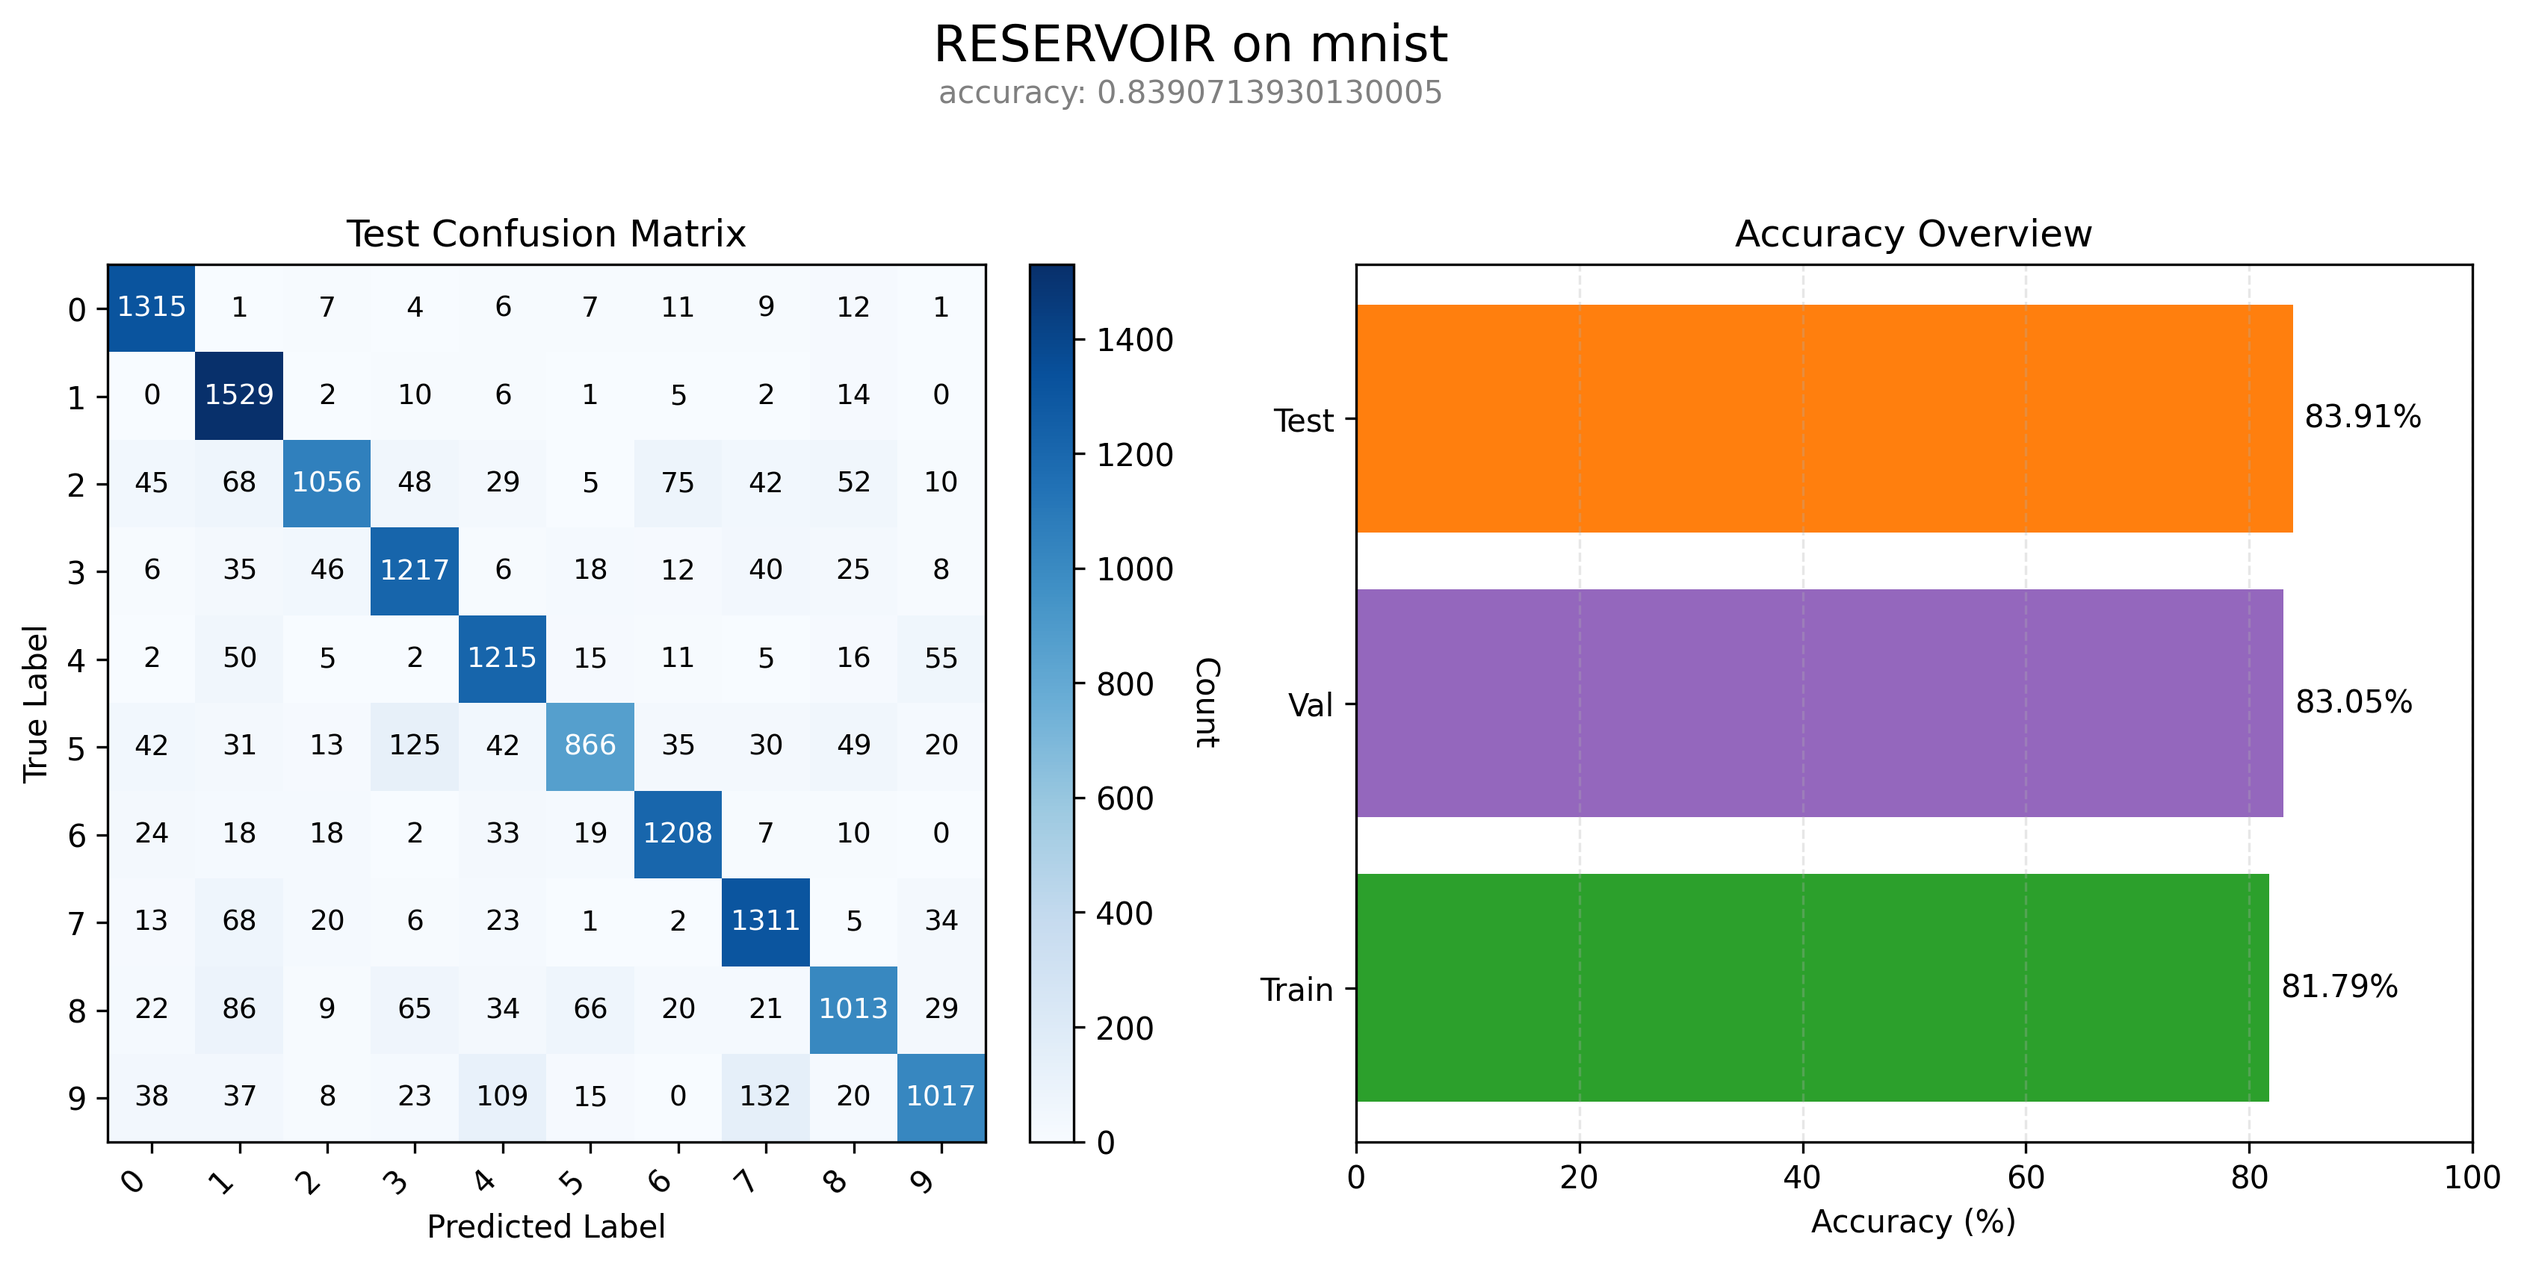
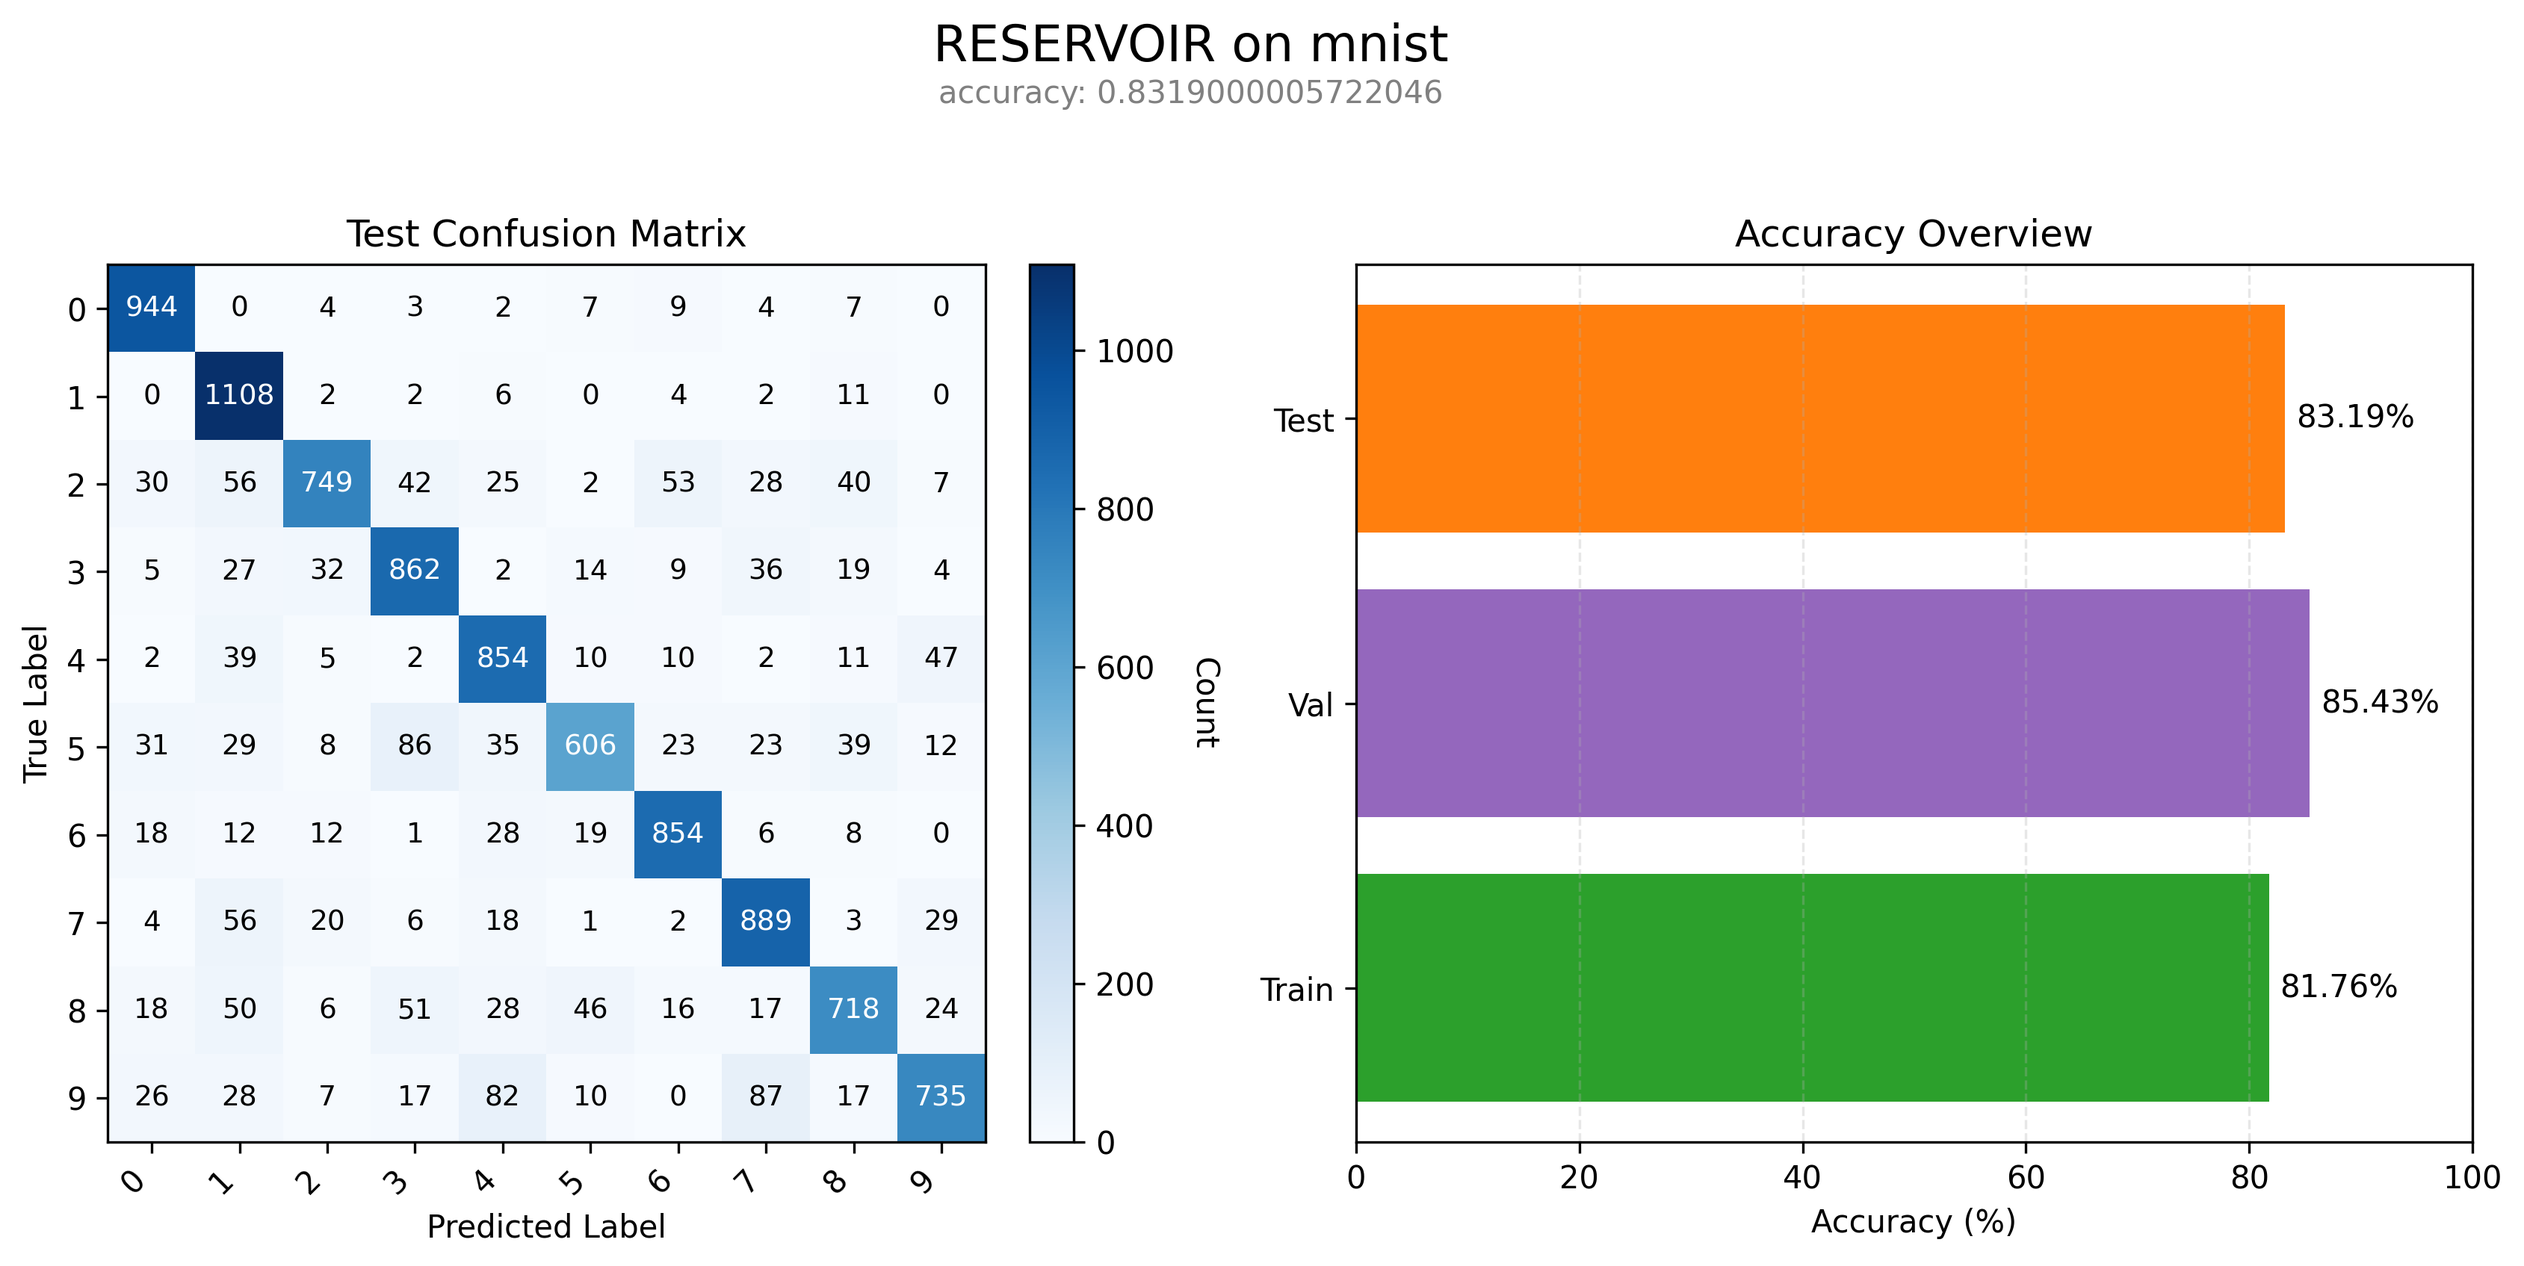
mnist loader fixed

diff --git a/src/reservoir/data/loaders.py b/src/reservoir/data/loaders.py
@@ -1,15 +1,17 @@
 """/home/yoshi/PycharmProjects/Reservoir/src/reservoir/data/loaders.py
-Dataset loader registrations."""
+Dataset loader registrations and preparation helpers."""
 
 from __future__ import annotations
 
-from typing import Dict, Any, Tuple
+from typing import Any, Dict, Optional, Tuple, Union
 
+import jax
 import jax.numpy as jnp
 
 from reservoir.data.generators import generate_sine_data, generate_mnist_sequence_data, generate_mackey_glass_data
-from reservoir.data.presets import get_dataset_preset
+from reservoir.data.presets import DatasetPreset, get_dataset_preset, normalize_dataset_name
 from reservoir.data.registry import DatasetRegistry
+from reservoir.data.structs import SplitDataset
 
 
 @DatasetRegistry.register("sine_wave")
@@ -32,8 +34,8 @@ def load_sine_wave(config: Dict[str, Any]) -> Tuple[jnp.ndarray, jnp.ndarray]:
 
 
 @DatasetRegistry.register("mnist")
-def load_mnist(config: Dict[str, Any]) -> Tuple[jnp.ndarray, jnp.ndarray]:
-    """Load MNIST sequence dataset as (N, T, F)."""
+def load_mnist(config: Dict[str, Any]) -> SplitDataset:
+    """Load MNIST sequence dataset as canonical train/test splits."""
     if generate_mnist_sequence_data is None:
         raise ImportError("MNIST sequence loader requires torch/torchvision.")
 
@@ -57,9 +59,15 @@ def load_mnist(config: Dict[str, Any]) -> Tuple[jnp.ndarray, jnp.ndarray]:
     train_arr = train_arr.reshape(train_arr.shape[0], train_arr.shape[1], -1)
     test_arr = test_arr.reshape(test_arr.shape[0], test_arr.shape[1], -1)
 
-    X = jnp.concatenate([train_arr, test_arr], axis=0)
-    y = jnp.concatenate([jnp.asarray(train_labels), jnp.asarray(test_labels)], axis=0)
-    return X, y
+    train_labels_arr = jnp.asarray(train_labels)
+    test_labels_arr = jnp.asarray(test_labels)
+
+    return SplitDataset(
+        train_X=train_arr,
+        train_y=train_labels_arr,
+        test_X=test_arr,
+        test_y=test_labels_arr,
+    )
 
 
 @DatasetRegistry.register("mackey_glass")
@@ -76,3 +84,123 @@ def load_mackey_glass(config: Dict[str, Any]) -> Tuple[jnp.ndarray, jnp.ndarray]
     if X_arr.ndim == 2:
         X_arr = X_arr[:, None, :]
     return X_arr, y_arr
+
+
+def load_dataset_with_validation_split(
+    config: Dict[str, Any],
+    dataset_preset: DatasetPreset,
+    training_cfg: Dict[str, Any],
+    *,
+    model_type: str,
+    require_3d: bool = True,
+) -> tuple[jnp.ndarray, jnp.ndarray, Optional[jnp.ndarray], Optional[jnp.ndarray], jnp.ndarray, jnp.ndarray]:
+    """
+    Load dataset via registry, apply task-specific preprocessing, and split into train/val/test.
+    """
+    dataset_name = normalize_dataset_name(config.get("dataset", ""))
+    loader = DatasetRegistry.get(dataset_name)
+
+    print(f"Loading dataset: {dataset_name}...")
+    dataset = loader(config)
+
+    val_size = float(training_cfg.get("val_size")) if training_cfg else 0.0
+
+    def _split_validation(features: jnp.ndarray, labels: jnp.ndarray) -> tuple[
+        jnp.ndarray, jnp.ndarray, Optional[jnp.ndarray], Optional[jnp.ndarray]
+    ]:
+        if val_size <= 0.0 or len(features) <= 1:
+            return features, labels, None, None
+
+        val_count = max(1, int(len(features) * val_size))
+        train_count = len(features) - val_count
+        if train_count < 1:
+            train_count = len(features) - 1
+
+        val_features = features[train_count:]
+        val_labels = labels[train_count:]
+        return features[:train_count], labels[:train_count], val_features, val_labels
+
+    train_X: Union[jnp.ndarray, None]
+    train_y: Union[jnp.ndarray, None]
+    test_X: Union[jnp.ndarray, None]
+    test_y: Union[jnp.ndarray, None]
+
+    if isinstance(dataset, SplitDataset):
+        train_X = dataset.train_X
+        train_y = dataset.train_y
+        test_X = dataset.test_X
+        test_y = dataset.test_y
+
+        if dataset.val_X is not None or dataset.val_y is not None:
+            val_X = dataset.val_X
+            val_y = dataset.val_y
+        else:
+            train_X, train_y, val_X, val_y = _split_validation(train_X, train_y)
+    else:
+        try:
+            X, y = dataset
+        except (TypeError, ValueError):
+            raise ValueError(f"Loader for dataset '{dataset_name}' must return (X, y) tuple or SplitDataset.")
+
+        total = len(X)
+        if total < 2:
+            raise ValueError(f"Dataset '{dataset_name}' is too small to split (size={total}).")
+
+        train_ratio = float(training_cfg.get("train_size", 0.8)) if training_cfg else 0.8
+        test_ratio = float(training_cfg.get("test_ratio", 0.0)) if training_cfg else 0.0
+
+        if not (0.0 < train_ratio < 1.0):
+            raise ValueError(f"train_size must be in (0,1), got {train_ratio}.")
+        if not (0.0 <= test_ratio < 1.0):
+            raise ValueError(f"test_ratio must be in [0,1), got {test_ratio}.")
+
+        if test_ratio > 0.0:
+            test_count = max(1, int(total * test_ratio))
+            train_count = total - test_count
+        else:
+            train_count = max(1, int(total * train_ratio))
+            test_count = total - train_count
+
+        if train_count < 1 or test_count < 1:
+            raise ValueError(f"Invalid split sizes: train={train_count}, test={test_count} for total={total}.")
+
+        train_X, test_X = X[:train_count], X[train_count:]
+        train_y, test_y = y[:train_count], y[train_count:]
+
+        train_X, train_y, val_X, val_y = _split_validation(train_X, train_y)
+
+    if require_3d:
+        targets = {
+            "train": train_X,
+            "test": test_X,
+            "val": val_X,
+        }
+        for split_name, arr in targets.items():
+            if arr is None:
+                continue
+            if arr.ndim != 3:
+                raise ValueError(
+                    f"Model type '{model_type}' requires 3D input (Batch, Time, Features). "
+                    f"Got shape {arr.shape} for split '{split_name}'. Please reshape your data source."
+                )
+
+    # Dataset-specific preprocessing
+    if dataset_name in {"mnist"}:
+        num_classes = int(dataset_preset.config.n_output)
+        print(f"Converting labels to one-hot vectors (classes={num_classes})...")
+        train_y = jax.nn.one_hot(jnp.asarray(train_y).astype(int), num_classes)
+        if val_y is not None:
+            val_y = jax.nn.one_hot(jnp.asarray(val_y).astype(int), num_classes)
+        test_y = jax.nn.one_hot(jnp.asarray(test_y).astype(int), num_classes)
+
+        print("Normalizing image data to [0, 1] range (div by 255)...")
+        train_X = jnp.asarray(train_X, dtype=jnp.float64) / 255.0
+        if val_X is not None:
+            val_X = jnp.asarray(val_X, dtype=jnp.float64) / 255.0
+        if test_X is not None:
+            test_X = jnp.asarray(test_X, dtype=jnp.float64) / 255.0
+
+        # Downstream scalers should be skipped for already-normalized vision data.
+        config["use_preprocessing"] = False
+
+    return train_X, train_y, val_X, val_y, test_X, test_y

diff --git a/pipelines/run.py b/pipelines/run.py
@@ -10,17 +10,14 @@ V2 Architecture Compliance:
 
 from typing import Dict, Any, Optional, Tuple
 
-import jax
-import jax.numpy as jnp
 import numpy as np
-from jax import Array
 
 # Core Imports
 from reservoir.models import FlaxModelFactory
 from pipelines.generic_runner import UniversalPipeline
 from reservoir.components import FeatureScaler, DesignMatrix, RidgeRegression, TransformerSequence
+from reservoir.data.loaders import load_dataset_with_validation_split
 from reservoir.data.presets import DATASET_REGISTRY, DatasetPreset
-from reservoir.data.registry import DatasetRegistry
 from reservoir.models.orchestrator import ReservoirModel
 from reservoir.models.presets import get_model_preset, ModelPreset
 from reservoir.training.presets import get_training_preset, TrainingConfig
@@ -208,32 +205,9 @@ def _get_strict_reservoir_params(config: Dict[str, Any]) -> Dict[str, Any]:
 
     return merged
 
-
-def load_dataset(config: Dict[str, Any]) -> list[Array]:
-    """Public dataset loader used by pipelines.__getattr__."""
-    X, y = _load_dataset(config)
-    split_idx = int(0.8 * len(X))
-    train_X, test_X = X[:split_idx], X[split_idx:]
-    train_y, test_y = y[:split_idx], y[split_idx:]
-    return [train_X, train_y, test_X, test_y]
-
-
-def _load_dataset(config: Dict[str, Any]) -> Tuple[jnp.ndarray, jnp.ndarray]:
-    """Load dataset via registry."""
-    dataset_name = config.get("dataset")
-    if not dataset_name:
-        raise ValueError("Configuration Error: 'dataset' key missing in config.")
-
-    normalized_name = DATASET_REGISTRY.normalize_name(dataset_name)
-    loader = DatasetRegistry.get(normalized_name)
-    if not loader:
-        raise ValueError(f"Registry Error: No loader found for dataset '{normalized_name}'.")
-
-    return loader(config)
-
-
 def run_pipeline(
-    config: Dict[str, Any]) -> Dict[str, Any]:
+    config: Dict[str, Any],
+) -> Dict[str, Any]:
     """
     The Unified Entry Point (V2 Strict Mode).
     """
@@ -261,50 +235,15 @@ def run_pipeline(
     training_cfg["_meta_model_type"] = model_type
     feature_batch_size = int(training_cfg.get("feature_batch_size", training_cfg.get("batch_size", 0) or 0))
 
-    print(f"Loading dataset: {dataset_name}...")
-    train_X, train_y, test_X, test_y = load_dataset(config)
+    train_X, train_y, val_X, val_y, test_X, test_y = load_dataset_with_validation_split(
+        config,
+        dataset_preset,
+        training_cfg,
+        model_type=model_type,
+        require_3d=True,
+    )
 
-    print(f"Data Shapes -> Train: {train_X.shape}, "
-          f"Test: {test_X.shape if test_X is not None else 'None'}")
-
-    if train_X.ndim != 3:
-        raise ValueError(
-            f"Model type '{model_type}' requires 3D input (Batch, Time, Features). "
-            f"Got shape {train_X.shape}. Please reshape your data source."
-        )
-
-    # Classification/Shape Handling
-    if dataset_name in {"mnist"}:
-        num_classes = int(dataset_preset.config.n_output)
-        print(f"Converting labels to one-hot vectors (classes={num_classes})...")
-        train_y = jax.nn.one_hot(train_y.astype(int), num_classes)
-        test_y = jax.nn.one_hot(test_y.astype(int), num_classes)
-        print("Normalizing image data to [0, 1] range (div by 255)...")
-        train_X = train_X.astype(jnp.float64) / 255.0
-        if test_X is not None:
-            test_X = test_X.astype(jnp.float64) / 255.0
-        config["use_preprocessing"] = False
-
-
-    val_X = None
-    val_y = None
-    val_size = float(training_cfg.get("val_size")) if training_cfg else 0.0
-    if val_size > 0.0 and len(train_X) > 1:
-        val_count = max(1, int(len(train_X) * val_size))
-        train_count = len(train_X) - val_count
-        if train_count < 1:
-            train_count = len(train_X) - 1
-        val_X = train_X[train_count:]
-        val_y = train_y[train_count:]
-        train_X = train_X[:train_count]
-        train_y = train_y[:train_count]
-
-
-    print(f"Data Shapes -> Train: {train_X.shape}, "
-          f"Val: {val_X.shape if val_X is not None else "None"}, "
-          f"Test: {test_X.shape if test_X is not None else 'None'}")
-
-
+    print(f"Data Shapes -> Train: {train_X.shape}, Val: {val_X.shape}, Test: {test_X.shape}")
 
     meta_n_outputs = int(dataset_preset.config.n_output)
 
@@ -598,19 +537,3 @@ def run_pipeline(
             )
 
     return results
-
-# --- Convenience Wrappers ---
-
-def run_fnn_pipeline(config: Dict[str, Any], save_path: Optional[str] = None) -> Dict[str, Any]:
-    config["model_type"] = "fnn"
-    return run_pipeline(config, save_path=save_path)
-
-def run_rnn_pipeline(config: Dict[str, Any], save_path: Optional[str] = None) -> Dict[str, Any]:
-    config["model_type"] = "rnn"
-    return run_pipeline(config, save_path=save_path)
-
-def run_reservoir_pipeline(config: Dict[str, Any], save_path: Optional[str] = None) -> Dict[str, Any]:
-    if "reservoir_type" not in config and "reservoir_preset" not in config:
-        config["reservoir_preset"] = "classical"
-    config["model_type"] = "reservoir"
-    return run_pipeline(config, save_path=save_path)

diff --git a/pipelines/__init__.py b/pipelines/__init__.py
@@ -9,10 +9,6 @@ depend on individual pipeline modules.
 __all__ = [
     "UniversalPipeline",
     "run_pipeline",
-    "run_rnn_pipeline",
-    "run_fnn_pipeline",
-    "run_reservoir_pipeline",
-    "load_dataset",
     "prepare_experiment_data",
     "ExperimentDataset",
 ]
@@ -29,14 +25,10 @@ def __getattr__(name):
         return {"prepare_experiment_data": prepare_experiment_data, "ExperimentDataset": ExperimentDataset}[
             name
         ]
-    if name in {"run_pipeline", "run_rnn_pipeline", "run_fnn_pipeline", "run_reservoir_pipeline", "load_dataset"}:
-        from .run import run_pipeline, run_rnn_pipeline, run_fnn_pipeline, run_reservoir_pipeline, load_dataset
+    if name in {"run_pipeline", "run_rnn_pipeline", "run_fnn_pipeline", "run_reservoir_pipeline"}:
+        from .run import run_pipeline
 
         return {
             "run_pipeline": run_pipeline,
-            "run_rnn_pipeline": run_rnn_pipeline,
-            "run_fnn_pipeline": run_fnn_pipeline,
-            "run_reservoir_pipeline": run_reservoir_pipeline,
-            "load_dataset": load_dataset,
         }[name]
     raise AttributeError(f"module {__name__!r} has no attribute {name!r}")

diff --git a/src/reservoir/data/registry.py b/src/reservoir/data/registry.py
@@ -3,12 +3,17 @@ Registry for dataset loader functions."""
 
 from __future__ import annotations
 
-from typing import Callable, Dict, Tuple, Any
+from typing import Any, Callable, Dict, Tuple, Union
 
 import jax.numpy as jnp
 
+from reservoir.data.structs import SplitDataset
+
 # Dataset loader signature: takes config dict, returns (X, y)
-DatasetLoaderFn = Callable[[Dict[str, Any]], Tuple[jnp.ndarray, jnp.ndarray]]
+DatasetLoaderFn = Callable[
+    [Dict[str, Any]],
+    Union[Tuple[jnp.ndarray, jnp.ndarray], SplitDataset],
+]
 
 
 class DatasetRegistry:

diff --git a/src/reservoir/data/__init__.py b/src/reservoir/data/__init__.py
@@ -13,6 +13,7 @@ from .presets import (
     get_dataset_preset,
     normalize_dataset_name,
 )
+from .structs import SplitDataset
 from .registry import DatasetRegistry  # noqa: F401
 from . import loaders  # noqa: F401
 from .mnist_loader import get_mnist_datasets, image_to_sequence  # noqa: F401
@@ -27,6 +28,7 @@ __all__ = [
     "DatasetPreset",
     "get_dataset_preset",
     "normalize_dataset_name",
+    "SplitDataset",
     "DatasetRegistry",
     "get_mnist_datasets",
     "image_to_sequence",

diff --git a/src/reservoir/data/structs.py b/src/reservoir/data/structs.py
@@ -1,0 +1,20 @@
+"""Data container structures for dataset splits."""
+
+from __future__ import annotations
+
+from dataclasses import dataclass
+from typing import Optional
+
+import numpy as np
+
+
+@dataclass
+class SplitDataset:
+    """Canonical dataset split container."""
+
+    train_X: np.ndarray
+    train_y: np.ndarray
+    test_X: np.ndarray
+    test_y: np.ndarray
+    val_X: Optional[np.ndarray] = None
+    val_y: Optional[np.ndarray] = None
